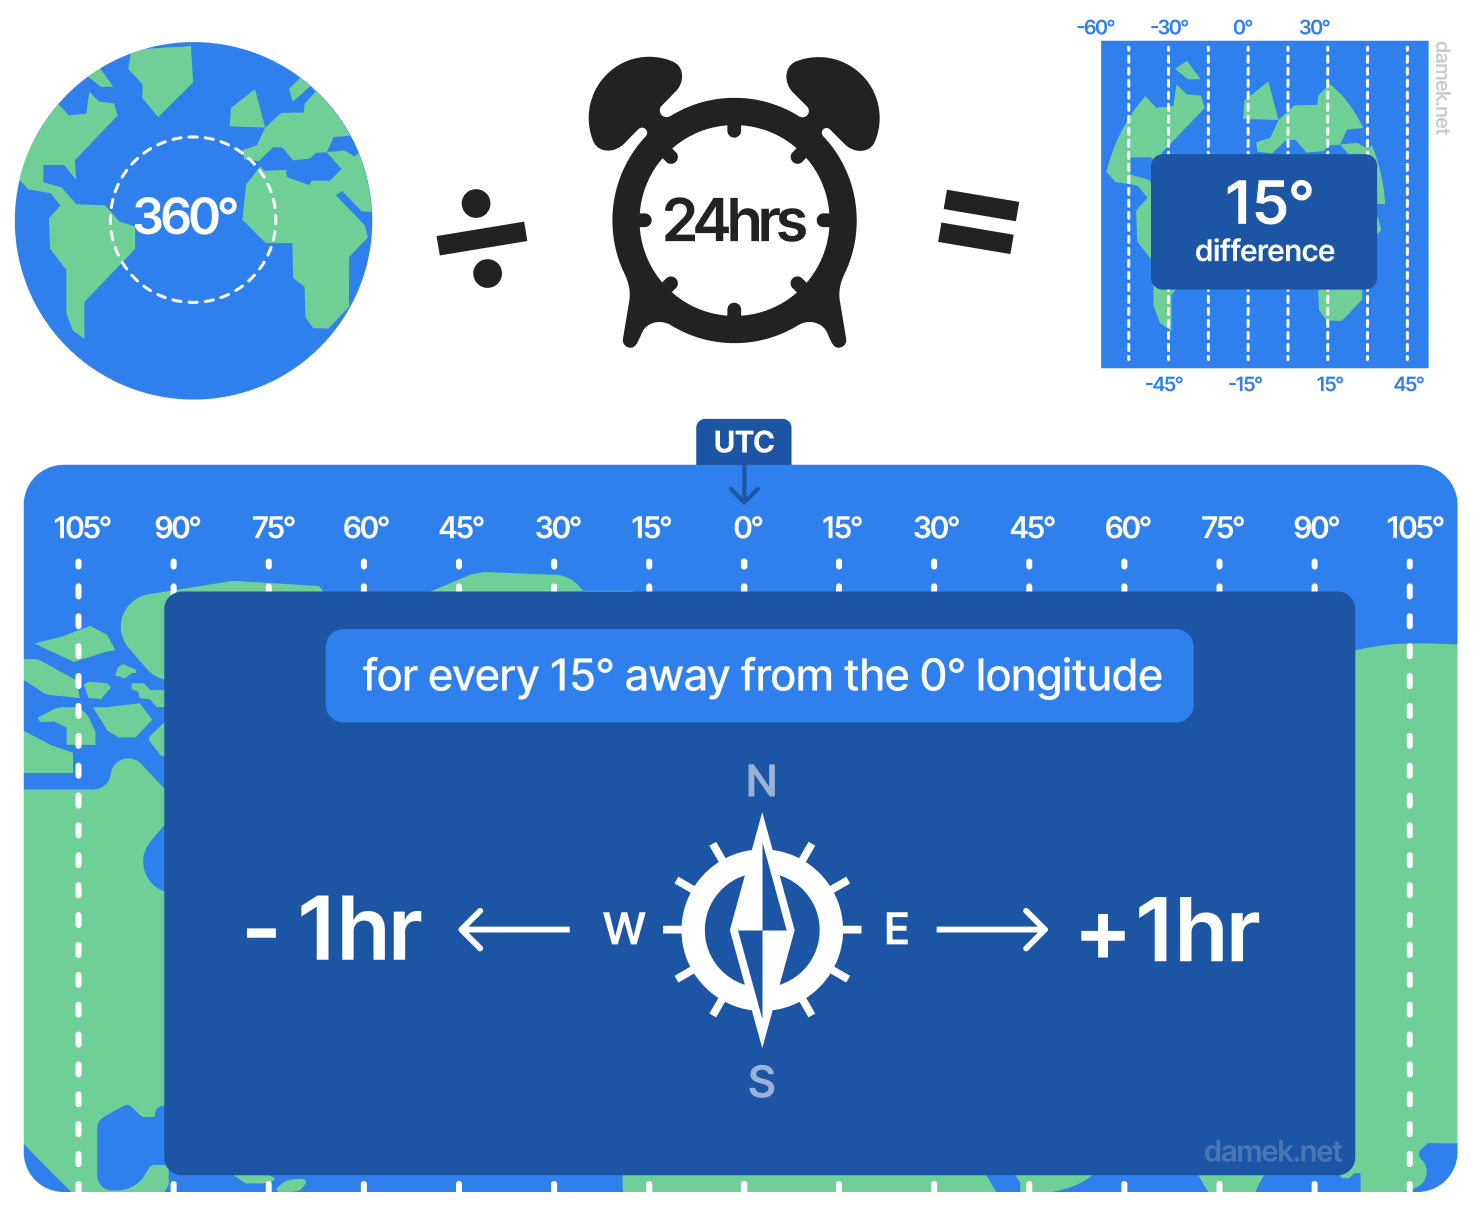
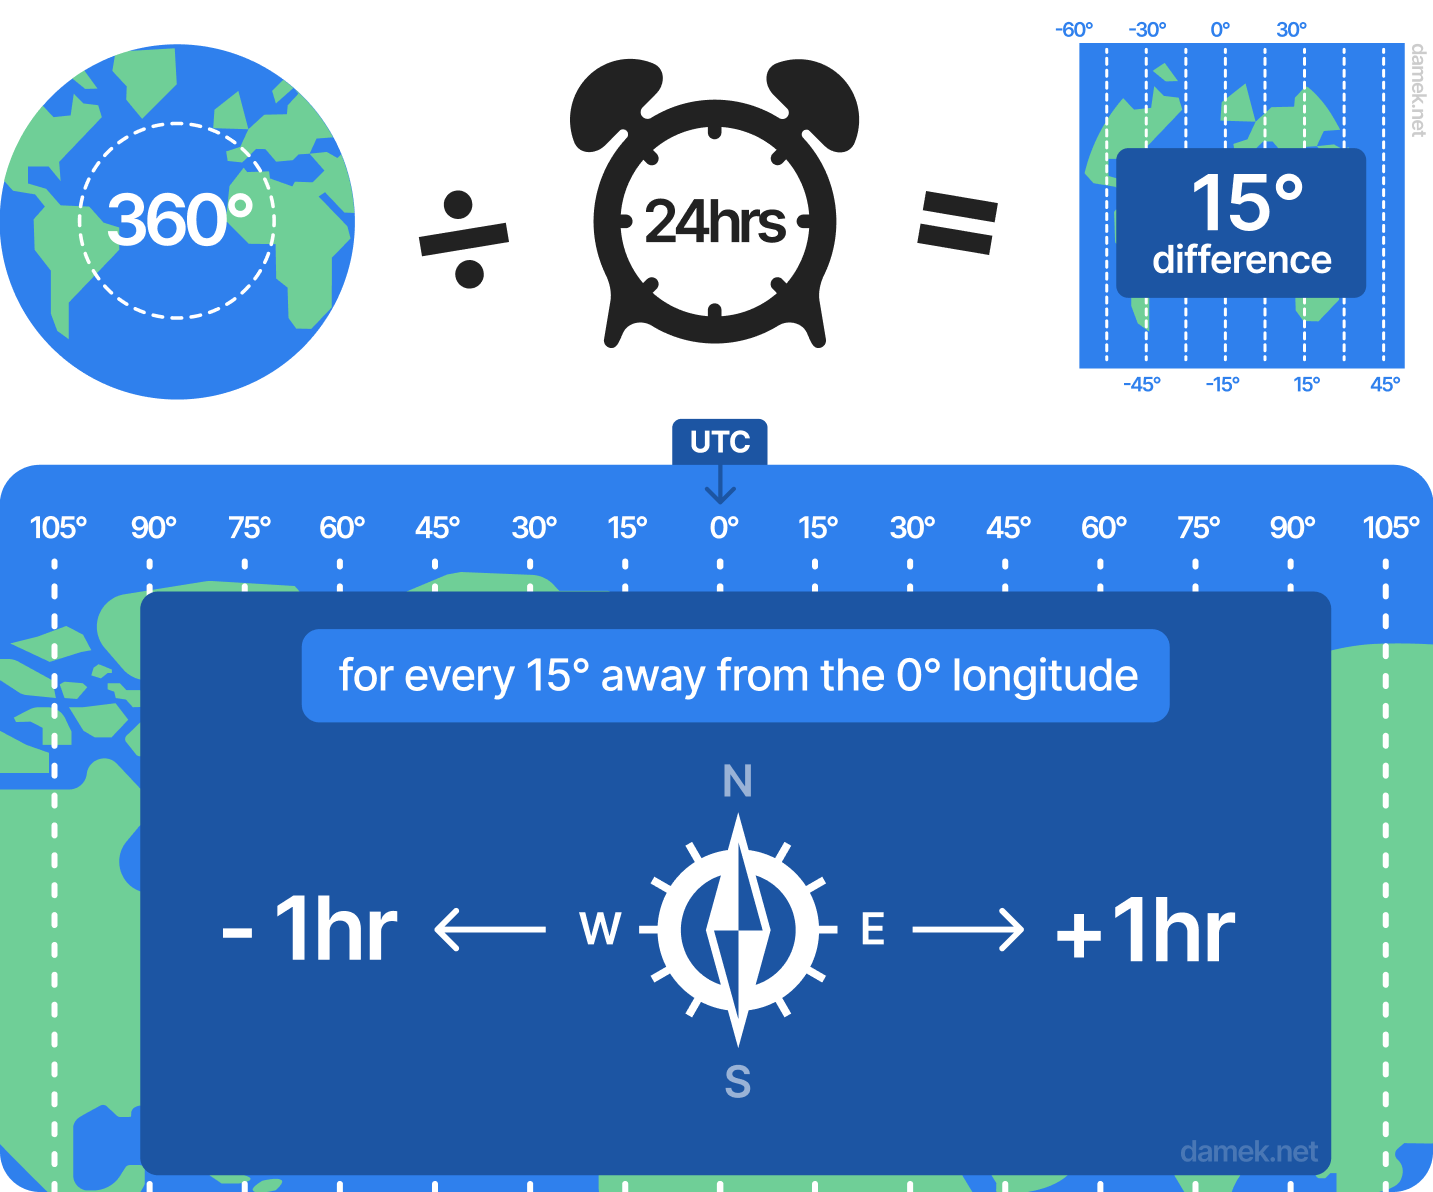
improve UI, change colors of game menus

diff --git a/style.css b/style.css
@@ -6,42 +6,6 @@
   src: url("./font/InterVariable.woff2?v=4.0") format("woff2");
 }
 
-@font-feature-values InterVariable {
-  @styleset {
-    alt-digits: 1;
-    disambiguation: 2;
-    round-quotes: 2;
-  }
-  @character-variant {
-    cv01: 1;
-    alt-one: 1;
-    cv02: 2;
-    alt-four: 2;
-    cv03: 3;
-    alt-six: 3;
-    cv04: 4;
-    alt-nine: 4;
-    cv05: 5;
-    l-tail: 5;
-    cv06: 6;
-    simple-u: 6;
-    cv07: 7;
-    alt-german-s: 7;
-    cv08: 8;
-    cap-i-serif: 8;
-    cv09: 9;
-    alt-three: 9;
-    cv10: 10;
-    cap-g-spur: 10;
-    cv11: 11;
-    simple-a: 11;
-    cv12: 12;
-    compact-f: 12;
-    cv13: 13;
-    compact-t: 13;
-  }
-}
-
 * {
     box-sizing: border-box;
     margin: 0;
@@ -51,7 +15,7 @@
 body {
     background-color: rgb(255, 255, 255);
     font-family: 'InterVariable',sans-serif;
-    font-feature-settings:'cv05' 1,'cv10' 1,'cv11' 1,'liga' 1,'calt' 1;
+    font-feature-settings:'cv05' 1,'cv08' 1,'cv10' 1,'cv11' 1,'liga' 1,'calt' 1;
     color: #000000;
     max-width: 600px;
     margin: 0 auto;
@@ -139,7 +103,7 @@ body {
     width: 100%;
     height: 380px;
     flex-shrink: 0;
-    border: 8px solid #194ee0;
+    border: 8px solid #1766d3;
     border-radius: 20px; 
     position: relative;
 }
@@ -158,7 +122,7 @@ body {
 #guess-btn {
     padding: 12px 24px;
     border: none;
-    background-color: #194ee0;
+    background-color: #1766d3;
     font-family: 'Inter',sans-serif;
     color: #fff;
     font-size: 1.3rem;
@@ -170,7 +134,7 @@ body {
 }
 
 #guess-btn:hover {
-    background-color: #0d2f8f;
+    background-color: #1c55a3;
     cursor: pointer;
 }
 
@@ -186,7 +150,7 @@ body {
     color: #ffffff;
     border-top-right-radius: 16px;
     padding: 10px;
-    background-color: #194ee0;
+    background-color: #1766d3;
     position: absolute;
     left: -4px;
     bottom: 0%;
@@ -293,7 +257,7 @@ body {
 }
 
 .popup{
-    background-color: #194ee0;
+    background-color: #3080ed;
     color: #ffffff;
     padding: 10px 20px;
     border-radius: 10px;
@@ -346,7 +310,7 @@ body {
 .guess-history p{
     font-weight: 400;
     font-style: italic;
-    color: #0c2770;
+    color: #3080ed;
     font-size: 0.9rem;
 }
 
@@ -438,7 +402,7 @@ body {
     font-size:2.5rem !important;
     font-weight: 600;
     top:62%;
-    left: -17.8%;
+    left: -19.3%;
     color: #1c55a3 !important;
     letter-spacing: -0.8px;    
     z-index: 9999;
@@ -538,12 +502,12 @@ body {
         font-size: 2.5rem;
     }
 
-    .how-img {
-        width: 100%;
-    }
-
     .timezone-map p {
         display: none;        
+    }
+
+    .how-img-txt {
+        display: none;
     }
 
     .info {
